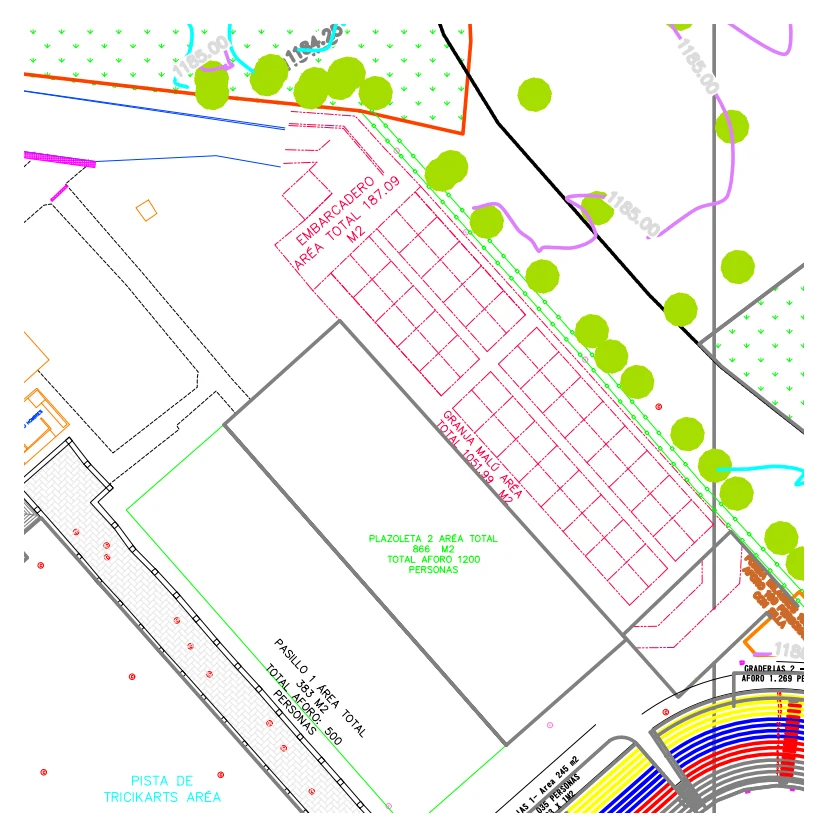
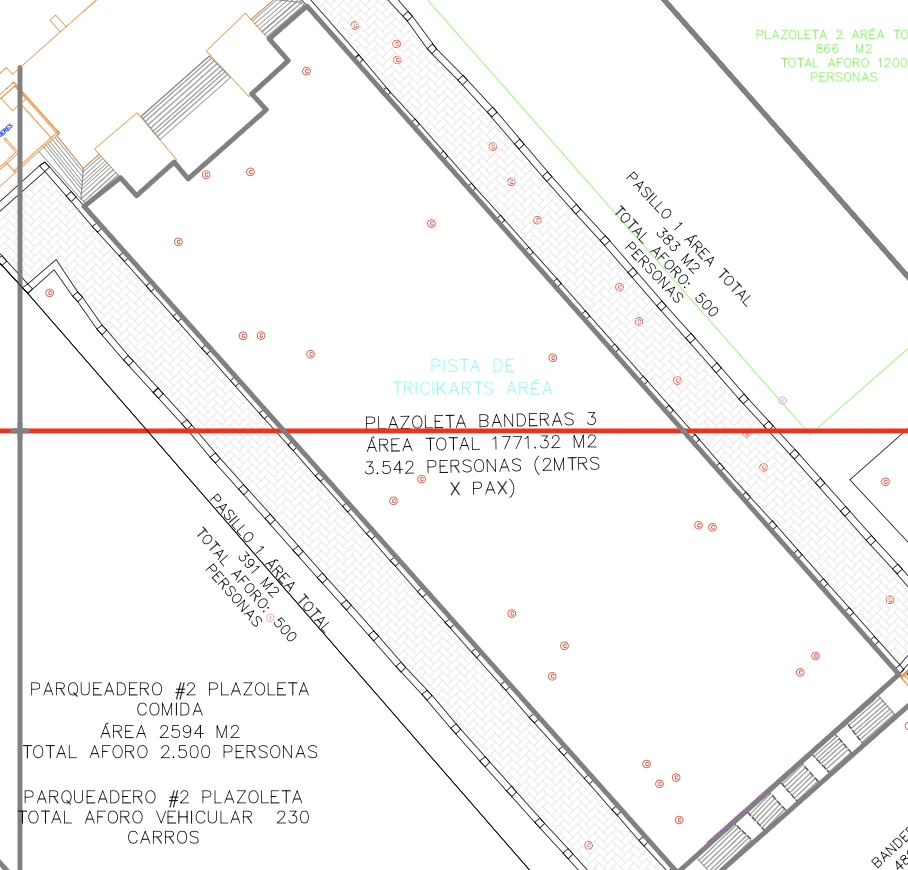
Add Santa Marta plano image and convert all space images to WebP

diff --git a/index.html b/index.html
@@ -581,8 +581,8 @@ const SPACES_DATA = [
   { id:'pabellon', type:'Pabellón', title:'Pabellón San Carlos', capacity:'5,000+', area:'20,000 m²', desc:'Pabellón techado de gran formato ideal para ferias comerciales, exposiciones industriales y showrooms. Puertas de acceso amplias para maquinaria y stands.', features:['Puertas de 6m de alto','Conexiones eléctricas','Bodega de carga'], img:'images/espacios/pabellon.webp', porHora:'$2.800.000', minHoras:'4', porDia:'$14.000.000' },
   { id:'salon', type:'Salón (x2)', title:'Salones Gótica', capacity:'800', area:'1,200 m² c/u', desc:'Dos salones modulables que pueden unificarse para mayor capacidad. Perfectos para conferencias, graduaciones, lanzamientos y eventos corporativos.', features:['Divisibles en 2 secciones','Climatización','Equipo audiovisual'], img:'images/espacios/salon-gotica.webp', porHora:'$650.000', minHoras:'3', porDia:'$3.200.000' },
   { id:'salon-sm', type:'Plazoleta outdoor', title:'Salón Santa Marta', capacity:'2,500', area:'2,594 m²', desc:'Plazoleta de comidas outdoor que hace parte del Mall Santa Marta. Espacio al aire libre de 2,594 m² con aforo de 2,500 personas. Ideal para eventos gastronómicos, activaciones de marca y ferias al aire libre.', features:['Decoración personalizable','Cocina equipada','Iluminación ambiental','Acceso VIP'], img:'images/espacios/salon-santa-marta.webp', porHora:'$720.000', minHoras:'4', porDia:"$5'760.000" },
-  { id:'fonda', type:'Fonda', title:'Fonda Milagros', capacity:'300', area:'600 m²', desc:'Espacio con ambientación típica colombiana, ideal para eventos culturales, celebraciones tradicionales, fiestas temáticas y activaciones de marca.', features:['Ambientación típica','Barra de bebidas','Pista de baile','Zona de fogón'], img:'images/espacios/fonda.png', porHora:'$380.000', minHoras:'3', porDia:'$1.800.000' },
-  { id:'plazoleta', type:'Plazoleta exterior', title:'Plazoleta de Banderas', capacity:'4,742', area:'2,637 m² (Plazoleta 2 y 3)', desc:'Plazoletas al aire libre conectadas entre sí. Plazoleta 2: 866 m² con aforo de 1,200 personas. Plazoleta 3: 1,771 m² con aforo de 3,542 personas (2 m² x pax). Perfectas para eventos outdoor, food trucks, conciertos abiertos y activaciones.', features:['Área 2 y 3 separables','Zona verde','Puntos de luz exterior','Carpa instalable'], img:'images/espacios/plazoleta.png', porHora:'$280.000', minHoras:'3', porDia:'$1.200.000' },
+  { id:'fonda', type:'Fonda', title:'Fonda Milagros', capacity:'300', area:'600 m²', desc:'Espacio con ambientación típica colombiana, ideal para eventos culturales, celebraciones tradicionales, fiestas temáticas y activaciones de marca.', features:['Ambientación típica','Barra de bebidas','Pista de baile','Zona de fogón'], img:'images/espacios/fonda.webp', porHora:'$380.000', minHoras:'3', porDia:'$1.800.000' },
+  { id:'plazoleta', type:'Plazoleta exterior', title:'Plazoleta de Banderas', capacity:'4,742', area:'2,637 m² (Plazoleta 2 y 3)', desc:'Plazoletas al aire libre conectadas entre sí. Plazoleta 2: 866 m² con aforo de 1,200 personas. Plazoleta 3: 1,771 m² con aforo de 3,542 personas (2 m² x pax). Perfectas para eventos outdoor, food trucks, conciertos abiertos y activaciones.', features:['Área 2 y 3 separables','Zona verde','Puntos de luz exterior','Carpa instalable'], img:'images/espacios/plazoleta.webp', porHora:'$280.000', minHoras:'3', porDia:'$1.200.000' },
 ];
 
 const SERVICES_DATA = [
